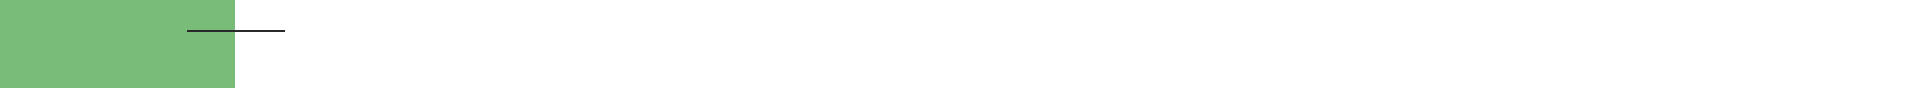
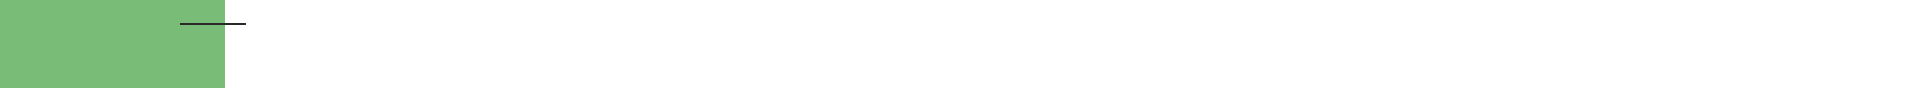
navbar responsive

Changed region(s): [[0.0938, 0.0, 0.1562, 1.0]]

diff --git a/src/app/utilities/navigation/navigation.component.scss b/src/app/utilities/navigation/navigation.component.scss
@@ -85,8 +85,125 @@
     }
 }
 
+@media(min-width: 1700px) and (max-width: 1870px){
+      
+    .navi a{
+        text-align: center;
+        padding-left: 40px;
+        font-size: 21px;
+        color: black;
+        font-family: $oswald;
+    }
+    
+    .nblogo{
+        height: 100px;
+        padding-left: 5px;
+        display: inline;
+    }
+    
+    .nbltext{
+        height: 79px;
+        padding-bottom: 18px;
+        margin-right: 340px;
+        display: inline;
+    }
+    
+    .cart{
+        height: 32px;
+        padding-left: 340px;
+    }
+    
+    .button{
+        border:none;
+        color: white;
+        text-align: center;
+        padding: 6px 25px;
+        margin: 10px;
+        border-radius: 50px;
+        font-family: $oswald;
+        }
+}
 
-@media (max-width: 1440px) { 
+@media(min-width: 1600px) and (max-width: 1700px){
+    
+    .navi a{
+    text-align: center;
+    padding-left: 40px;
+    font-size: 21px;
+    color: black;
+    font-family: $oswald;
+}
+
+.nblogo{
+    height: 100px;
+    padding-left: 5px;
+    display: inline;
+}
+
+.nbltext{
+    height: 79px;
+    padding-bottom: 18px;
+    margin-right: 340px;
+    display: inline;
+}
+
+.cart{
+    height: 32px;
+    padding-left: 340px;
+}
+
+.button{
+    border:none;
+    color: white;
+    text-align: center;
+    padding: 6px 25px;
+    margin: 10px;
+    border-radius: 50px;
+    font-family: $oswald;
+    }
+}
+
+
+@media (min-width: 1500px) and (max-width: 1600px){ 
+    
+    .navi a{
+        text-align: center;
+        padding-left: 40px;
+        font-size: 21px;
+        color: black;
+        font-family: $oswald;
+    }
+    
+    .nblogo{
+        height: 100px;
+        padding-left: 5px;
+        display: inline;
+    }
+    
+    .nbltext{
+        height: 79px;
+        padding-bottom: 18px;
+        margin-right: 280px;
+        display: inline;
+    }
+    
+    .cart{
+        height: 32px;
+        padding-left: 250px;
+    }
+    
+    .button{
+        border:none;
+        color: white;
+        text-align: center;
+        padding: 6px 25px;
+        margin: 10px;
+        border-radius: 50px;
+        font-family: $oswald;
+        }
+    }
+
+@media (min-width: 1400px) and (max-width: 1500px) { 
     
     .navi a{
         text-align: center;
@@ -125,7 +242,100 @@
         }
     }
 
-    @media (max-width: 1024px) { 
+    
+    @media(min-width: 1230px) and (max-width: 1400px){
+        
+        .navi{
+            background: url('../../../assets/images/Navigation-mob.jpg');
+            height: 75px;
+            width: 100%;
+        }
+    
+        .navi a{
+            text-align: center;
+            padding-left: 20px;
+            font-size: 21px;
+            color: black;
+            font-family: $oswald;
+        }
+        
+        .nblogo{
+            height: 100px;
+            padding-left: 5px;
+            display: inline;
+        }
+        
+        .nbltext{
+            height: 79px;
+            padding-bottom: 18px;
+            margin-right: 200px;
+            display: inline;
+        }
+        
+        .cart{
+            height: 32px;
+            padding-left: 220px;
+        }
+        
+        .button{
+            border:none;
+            color: white;
+            text-align: center;
+            padding: 6px 25px;
+            margin: 7px;
+            border-radius: 50px;
+            font-family: $oswald;
+            }
+    }
+
+
+    @media(min-width: 1050px) and (max-width: 1230px){
+        
+        .navi{
+            background: url('../../../assets/images/Navigation-mob.jpg');
+            height: 75px;
+            width: 100%;
+        }
+    
+        .navi a{
+            text-align: center;
+            padding-left: 20px;
+            font-size: 21px;
+            color: black;
+            font-family: $oswald;
+        }
+        
+        .nblogo{
+            height: 100px;
+            padding-left: 5px;
+            display: inline;
+        }
+        
+        .nbltext{
+            height: 79px;
+            padding-bottom: 18px;
+            margin-right: 200px;
+            display: inline;
+        }
+        
+        .cart{
+            height: 32px;
+            padding-left: 220px;
+        }
+        
+        .button{
+            border:none;
+            color: white;
+            text-align: center;
+            padding: 6px 25px;
+            margin: 7px;
+            border-radius: 50px;
+            font-family: $oswald;
+            }
+    }
+
+
+    @media(max-width: 1024px){ 
 
         .navi{
             background: url('../../../assets/images/Navigation-mob.jpg');
@@ -164,11 +374,56 @@
             color: white;
             text-align: center;
             padding: 6px 25px;
-            margin: 10px;
+            margin: 7px;
             border-radius: 50px;
             font-family: $oswald;
             }
         }
+
+        @media(min-width: 860px) and (max-width: 1000px){
+            .navi{
+                background: url('../../../assets/images/Navigation-mob-1.jpg');
+                height: 75px;
+                width: 100%;
+            }
+        
+            .navi a{
+                text-align: center;
+                padding-left: 20px;
+                font-size: 21px;
+                color: black;
+                font-family: $oswald;
+            }
+            
+            .nblogo{
+                height: 100px;
+                padding-left: 5px;
+                display: inline;
+            }
+            
+            .nbltext{
+                height: 79px;
+                padding-bottom: 18px;
+                margin-right: 60px;
+                display: inline;
+            }
+            
+            .cart{
+                height: 32px;
+                padding-left: 30px;
+            }
+            
+            .button{
+                border:none;
+                color: white;
+                text-align: center;
+                padding: 6px 25px;
+                margin: 7px;
+                border-radius: 50px;
+                font-family: $oswald;
+                }
+            }
+        
 
 @media (max-width: 768px) { 
     .navi{
@@ -194,13 +449,13 @@
     .nbltext{
         height: 79px;
         padding-bottom: 18px;
-        margin-right: 70px;
+        margin-right: 30px;
         display: inline;
     }
     
     .cart{
         height: 32px;
-        padding-left: 30px;
+        padding-left: 10px;
     }
     
     .button{

diff --git a/src/app/utilities/navigation/navigation.component.html b/src/app/utilities/navigation/navigation.component.html
@@ -1,13 +1,13 @@
 <div class="navi">
     <ul>
-        <a routerLink="home">
+        <a routerLink="/home">
         <img src="../../../assets/images/nb.png" alt="logo" class="nblogo">
         <img src="../../../assets/images/NearBuy.png" alt="logo" class="nbltext"></a>
-        <a routerLink="store">Store</a>
-        <a routerLink="how-it-works">How it works?</a>
-        <a routerLink="about-Us">About Us</a>
-        <a routerLink="contact-Us">Contact Us</a>
-        <a routerLink="cart">
+        <a routerLink="/store">Store</a>
+        <a routerLink="/how-it-works">How it works?</a>
+        <a routerLink="/about-us">About Us</a>
+        <a routerLink="/contact-us">Contact Us</a>
+        <a routerLink="/cart">
             <img src="../../../assets/images/Cart.png" alt="cart" class="cart"></a>
         <button class="button button1">Track Order</button>
     </ul>
